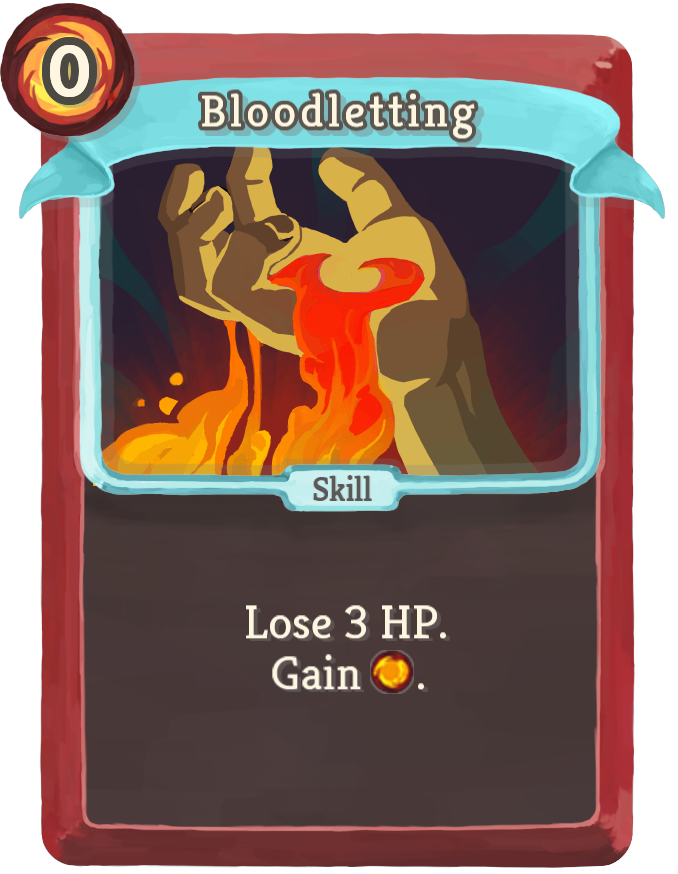
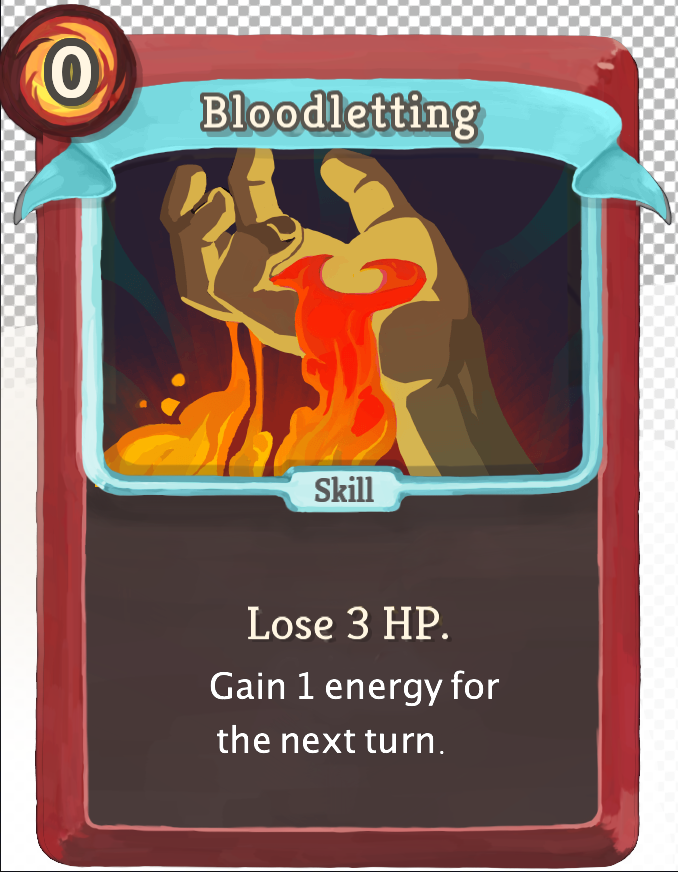
changed bloodletting card effect

diff --git a/player.js b/player.js
@@ -16,6 +16,7 @@ class Player {
         this.energy = 3;
         this.armor = 0;
         this.strength = 0;
+        this.nextEnergyBonus = 0;
 
         this.slashSound = document.getElementById("slash");
         this.shieldSound = document.getElementById("shieldsound");
@@ -178,7 +179,7 @@ class Player {
                     //  console.log(this.graphic.sCount)
             } else if (card.type === "bloodletting") {
                 this.health += card.value
-                this.energy += 1
+                this.nextEnergyBonus += 1
             } else if (card.type === "attack" || card.type === "clothesline") {
                 this.graphic.attackAnimation()
                 this.slashSound.play()

diff --git a/game.js b/game.js
@@ -263,7 +263,8 @@ class Game {
 
         this.enemy.action = this.enemy.randomAction();
         this.player.armor = 0;
-        this.player.energy = 3;
+        this.player.energy = 3 + this.player.nextEnergyBonus;
+        this.player.nextEnergyBonus = 0;
         this.player.strength = 0;
         
         if (this.enemy.weakened > 0) {

diff --git a/deck.js b/deck.js
@@ -7,7 +7,7 @@ class Deck {
         while (cardArr.length < 12) {
             cardArr.push(new defendCard)
             cardArr.push(new attackCard);
-            // cardArr.push(new strengthCard)
+            // cardArr.push(new bloodletting)
         }
 
        
